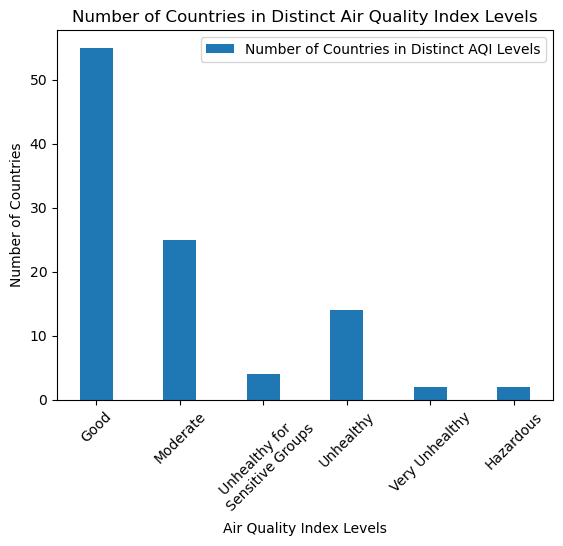
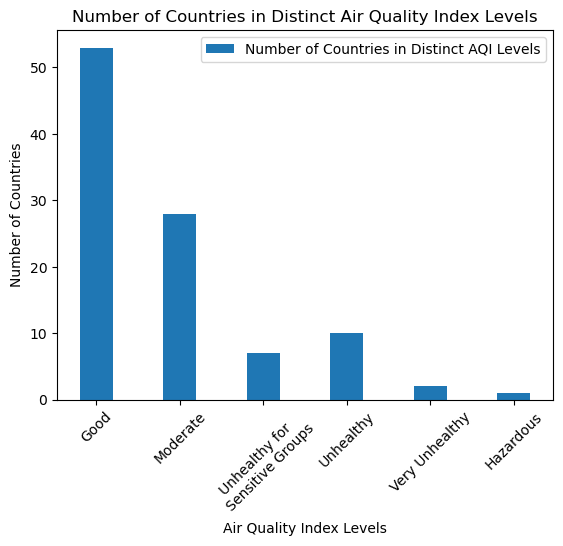
Add files via upload

diff --git a/api.py b/api.py
@@ -7,16 +7,8 @@ import unittest
 import os
 import csv
 import matplotlib.pyplot as plt
-# from matplotlib.ticker import FixedLocator, FormatStrFormatter
 import numpy as np
-
-
-def setUpDatabase(db_name):
-    path = os.path.dirname(os.path.abspath(__file__))
-    conn = sqlite3.connect(path+'/'+db_name)
-    cur = conn.cursor()
-    return cur, conn
-
+from sklearn.linear_model import LinearRegression
 
 list1 = ["Asia", "North America", "Africa", "Europe", "South America","Oceania"]
 list2 = [1, 2, 3, 4, 5, 6]
@@ -27,6 +19,23 @@ list6 = []
 list7 = []
 list8 = []
 
+dict_continent_id = {}
+dict_country_id = {}
+
+
+
+# Sets up database path 
+# Input: Takes a Database Name as Input 
+# Output: returns cur, conn
+def setUpDatabase(db_name):
+    path = os.path.dirname(os.path.abspath(__file__))
+    conn = sqlite3.connect(path+'/'+db_name)
+    cur = conn.cursor()
+    return cur, conn
+
+# Reads in data from the Air Quality Index API into two lists   
+# Input: cur, conn 
+# Output: Inserts AQI data and Country Index but does not return anything  
 def create_aqi_table(cur, conn):
 
     for country in dict_country_id.keys():
@@ -47,28 +56,13 @@ def create_aqi_table(cur, conn):
                 else:
                     air_quality_index = location_info['data']['iaqi']["pm25"]["v"]
 
-
-            # get pm25
-            # if "o3" not in location_info['data']['iaqi']:
-            #     continue
-
-            # pm_25_value = location_info['data']['iaqi']["o3"]["v"]
-
-            # make country name lower case 
-
-            # insert data into the Tracks table
-
             location_name = country.lower()
-        #     cur.execute('INSERT INTO AirQualityTable (Country_ID, AirQualityIndex) VALUES (?, ?)',
-        #         (dict_return[location_name], air_quality_index))
             list7.append(dict_country_id[location_name])
             list8.append(air_quality_index)
-        #         # commit the changes
-    
-        # conn.commit()
 
-
-dict_continent_id = {}
+# Creates dictionary for the country ID table    
+# Input: cur, conn 
+# Output: none 
 def create_continent_table(cur, conn):
 
     dict_continent_id["Asia"] = 1
@@ -77,17 +71,11 @@ def create_continent_table(cur, conn):
     dict_continent_id["Europe"] = 4
     dict_continent_id["South America"] = 5
     dict_continent_id["Oceania"] = 6
-    
-    # for continent in dict_continent_id.keys():
-    #     cur.execute('INSERT INTO ContinentIDTable (Continent_ID, Continent) VALUES (?, ?)',
-    #             (dict_continent_id[continent], continent))
-    # conn.commit()
 
-dict_country_id = {}
+# Reads in data from the Mortality Rate website into three lists for MortalityRateTable 
+# Input: cur, conn 
+# Output: None 
 def create_country_and_mortality_table(cur, conn):
-# https://api.openweathermap.org/data/3.0/onecall?lat={lat}&lon={lon}&exclude={part}&appid={API key}
-    # https://worldpopulationreview.com/country-rankings/death-rate-by-country
-
     url = "https://statisticstimes.com/demographics/countries-by-death-rate.php"
     r = requests.get(url)
     soup = BeautifulSoup(r.text, 'html.parser')
@@ -127,30 +115,19 @@ def create_country_and_mortality_table(cur, conn):
 
         continent_name = (tag3[6].text).strip()
 
-        # insert and ignore 
-
         list3.append(count)
         list4.append(country_name_lower)
         list5.append(dict_continent_id[continent_name])
 
-        # cur.execute('INSERT INTO CountryIDTable (Country_ID, Country, Continent_ID) VALUES (?, ?, ?)',
-        #     (count, country_name_lower, dict_continent_id[continent_name]))
-
-        # index into second td and get country name
         mortality_rate = (tag3[4].text).strip()
 
-        # cur.execute('INSERT INTO MortalityRateTable (Country_ID, MortalityRate) VALUES (?, ?)',
-        #     (count, mortality_rate))
         list6.append(mortality_rate)
 
         count = count + 1
 
-    # conn.commit()
-
-# loop through each min(25, size of database left)
-# only update count if the item is unique 
-
-
+# Adds all or 25 values into the AirQualityTable    
+# Input: cur, conn and bool value for wheather to add all the data to the database or 25 lines
+# Output: none 
 def add_to_table(printAll, cur, conn):
     cur.execute('SELECT count(Country_ID) FROM AirQualityTable')
     count = cur.fetchone()
@@ -174,7 +151,9 @@ def add_to_table(printAll, cur, conn):
                 (list7[i], list8[i]))
     conn.commit()
 
-
+# Adds all or 25 values into the MortalityRateTable    
+# Input: cur, conn and bool value for wheather to add all the data to the database or 25 lines
+# Output: none 
 def add_to_table1(printAll, cur, conn):
     cur.execute('SELECT count(Country_ID) FROM MortalityRateTable')
     count = cur.fetchone()
@@ -197,7 +176,9 @@ def add_to_table1(printAll, cur, conn):
             (list3[i], list6[i]))
     conn.commit()
 
-
+# Adds all or 25 values into the CountryIDTable    
+# Input: cur, conn and bool value for wheather to add all the data to the database or 25 lines
+# Output: none 
 def add_to_table2(printAll, cur, conn):
     cur.execute('SELECT count(Country_ID) FROM CountryIDTable')
     count = cur.fetchone()
@@ -220,7 +201,9 @@ def add_to_table2(printAll, cur, conn):
             (list3[i], list4[i], list5[i]))
     conn.commit()
 
-
+# Adds all or 25 values into the ContinentIDTable    
+# Input: cur, conn and bool value for wheather to add all the data to the database or 25 lines
+# Output: none 
 def add_to_table3(printAll, cur, conn):
     cur.execute('SELECT count(Continent_ID) FROM ContinentIDTable')
     count = cur.fetchone()
@@ -246,8 +229,10 @@ def add_to_table3(printAll, cur, conn):
             (list2[i], list1[i]))
     conn.commit()
 
+# Joins the data from the 4 different tables in the database     
+# Input: cur, conn
+# Output: returns the joined data  
 def join_tables(cur, conn):
-    # CountryIDTable.Country ContinentIDTable.Continent MortalityRateTable.MortalityRate AirQualityTable.AirQualityIndex
     cur.execute('''SELECT CountryIDTable.Country, ContinentIDTable.Continent, MortalityRateTable.MortalityRate, AirQualityTable.AirQualityIndex
     FROM AirQualityTable  
     JOIN CountryIDTable ON CountryIDTable.Country_ID = AirQualityTable.Country_ID 
@@ -255,13 +240,12 @@ def join_tables(cur, conn):
     JOIN MortalityRateTable ON AirQualityTable.Country_ID = MortalityRateTable.Country_ID
     ''')
 
-    # cur.execute("SELECT CountryIDTable.Country ContinentIDTable.Continent MortalityRateTable.MortalityRate AirQualityTable.AirQualityIndex FROM AirQualityTable INNER JOIN MortalityRateTable ON AirQualityTable.Country_ID = MortalityRateTable.Country_ID INNER JOIN CountryIDTable ON CountryIDTable.Country_ID = AirQualityTable.Country_ID INNER JOIN ContinentIDTable ON CountryIDTable.Continent_ID = ContinentIDTable.Continent_ID")
-    # cur.execute('''SELECT CountryIDTable.Country ContinentIDTable.Continent MortalityRateTable.MortalityRate AirQualityTable.AirQualityIndex FROM AirQualityTable INNER JOIN MortalityRateTable ON AirQualityTable.Country_ID = MortalityRateTable.Country_ID INNER JOIN CountryIDTable ON CountryIDTable.Country_ID = AirQualityTable.Country_ID INNER JOIN ContinentIDTable ON CountryIDTable.Continent_ID = ContinentIDTable.Continent_ID''')
-    # cur.execute("SELECT CountryIDTable.Country ContinentIDTable.Continent MortalityRateTable.MortalityRate AirQualityTable.AirQualityIndex FROM covid_deaths INNER JOIN rainfall ON covid_deaths.country=rainfall.country_a INNER JOIN covid_confirmed ON covid_deaths.country=covid_confirmed.country_b")
     joined_data = cur.fetchall()
-    # print(joined_data)
     return joined_data
 
+# creates the two csv data files and the three visuals      
+# Input: takes in the joined data from def join_tables(cur, conn)
+# Output: none 
 def calculate_and_csv(joined_data):
     avg_mortality_rate_by_continent_list = []
     avg_aqi_rate_by_continent_list = []
@@ -277,7 +261,7 @@ def calculate_and_csv(joined_data):
     
     list_of_present_continents = []
     for items in list1:
-        if items in avg_mortality_rate_by_continent:
+        if items in avg_mortality_rate_by_continent.keys():
             avg_mort_rate = avg_mortality_rate_by_continent[items] / continent_count[items]
             avg_mortality_rate_by_continent_list.append(avg_mort_rate)
             avg_aqi_rate = avg_aqi_rate_by_continent[items] / continent_count[items]
@@ -291,15 +275,11 @@ def calculate_and_csv(joined_data):
         inner = [list_of_present_continents[i], avg_mortality_rate_by_continent_list[i], avg_aqi_rate_by_continent_list[i]]
         outer.append(inner)
     with open('continent-mortality-aqi.csv', 'w') as f:
-      
-    # using csv.writer method from CSV package
         write = csv.writer(f)
-        
         write.writerow(header)
         write.writerows(outer)
 
-
-    X_axis = np.arange(6)
+    X_axis = np.arange(len(list_of_present_continents))
     
     plt.bar(X_axis - 0.2, avg_mortality_rate_by_continent_list, 0.4, label = 'Average Mortality Rate (%)' )
     plt.bar(X_axis + 0.2, avg_aqi_rate_by_continent_list, 0.4, label = 'Average Air Quality Index')
@@ -350,25 +330,17 @@ def calculate_and_csv(joined_data):
         outer.append(inner)
     with open('aqi-across-countries.csv', 'w') as f:
       
-    # using csv.writer method from CSV package
         write = csv.writer(f)
         
         write.writerow(header)
         write.writerows(outer)
 
-    
 
     X_axis = np.arange(6)
     
     plt.bar(X_axis, level_of_health_concern_list, 0.4, label = 'Number of Countries in Distinct AQI Levels' )
     
     plt.xticks(X_axis, level_of_health_concern_catergory_list, rotation = 45)
-    # plt.plot(range(100))
-
-    # plt.axes().xaxis.set_major_locator(FixedLocator(range(0, 100, 10)))
-    # plt.axes().xaxis.set_minor_locator(FixedLocator(range(5, 100, 10)))
-    # plt.axes().xaxis.set_minor_formatter(FormatStrFormatter("%d"))
-    # plt.axes().tick_params(which='major', pad=20, axis='x')
     plt.xlabel("Air Quality Index Levels")
     plt.ylabel("Number of Countries")
     plt.title("Number of Countries in Distinct Air Quality Index Levels")
@@ -377,10 +349,37 @@ def calculate_and_csv(joined_data):
     plt.close()
 
 
+    mortality_rate_list = []
+    aqi_list = []
+
+    for mortality_rate_vs_AQI in joined_data:
+        mortality_rate_list.append(mortality_rate_vs_AQI[2])
+        aqi_list.append(mortality_rate_vs_AQI[3])
+
+    y = np.array(mortality_rate_list)
+    x = np.array(aqi_list)
+
+    plt.plot(x, y, 'o')
+
+    m, b = np.polyfit(x, y, 1)
+
+    plt.plot(x, m*x+b, color='red')
+
+    plt.title('Air Quality Index vs Mortality Rate by Country')
+    plt.xlabel('Air Quality Index')
+    plt.ylabel('Mortality Rate (%)')
+
+    plt.savefig("mortality_vs_aqi.png")
+    plt.close()
+
+
+
 if os.path.exists("mortality-aqi-continent.png"):
     os.remove("mortality-aqi-continent.png")
 if os.path.exists("aqi-index-countries-count.png"):
     os.remove("aqi-index-countries-count.png")
+if os.path.exists("mortality_vs_aqi.png"):
+    os.remove("mortality_vs_aqi.png")
 
 def main():
 
@@ -417,8 +416,6 @@ def main():
 
     joined_data = join_tables(cur, conn)
     calculate_and_csv(joined_data)
-
-
 
 
 if __name__ == "__main__":
